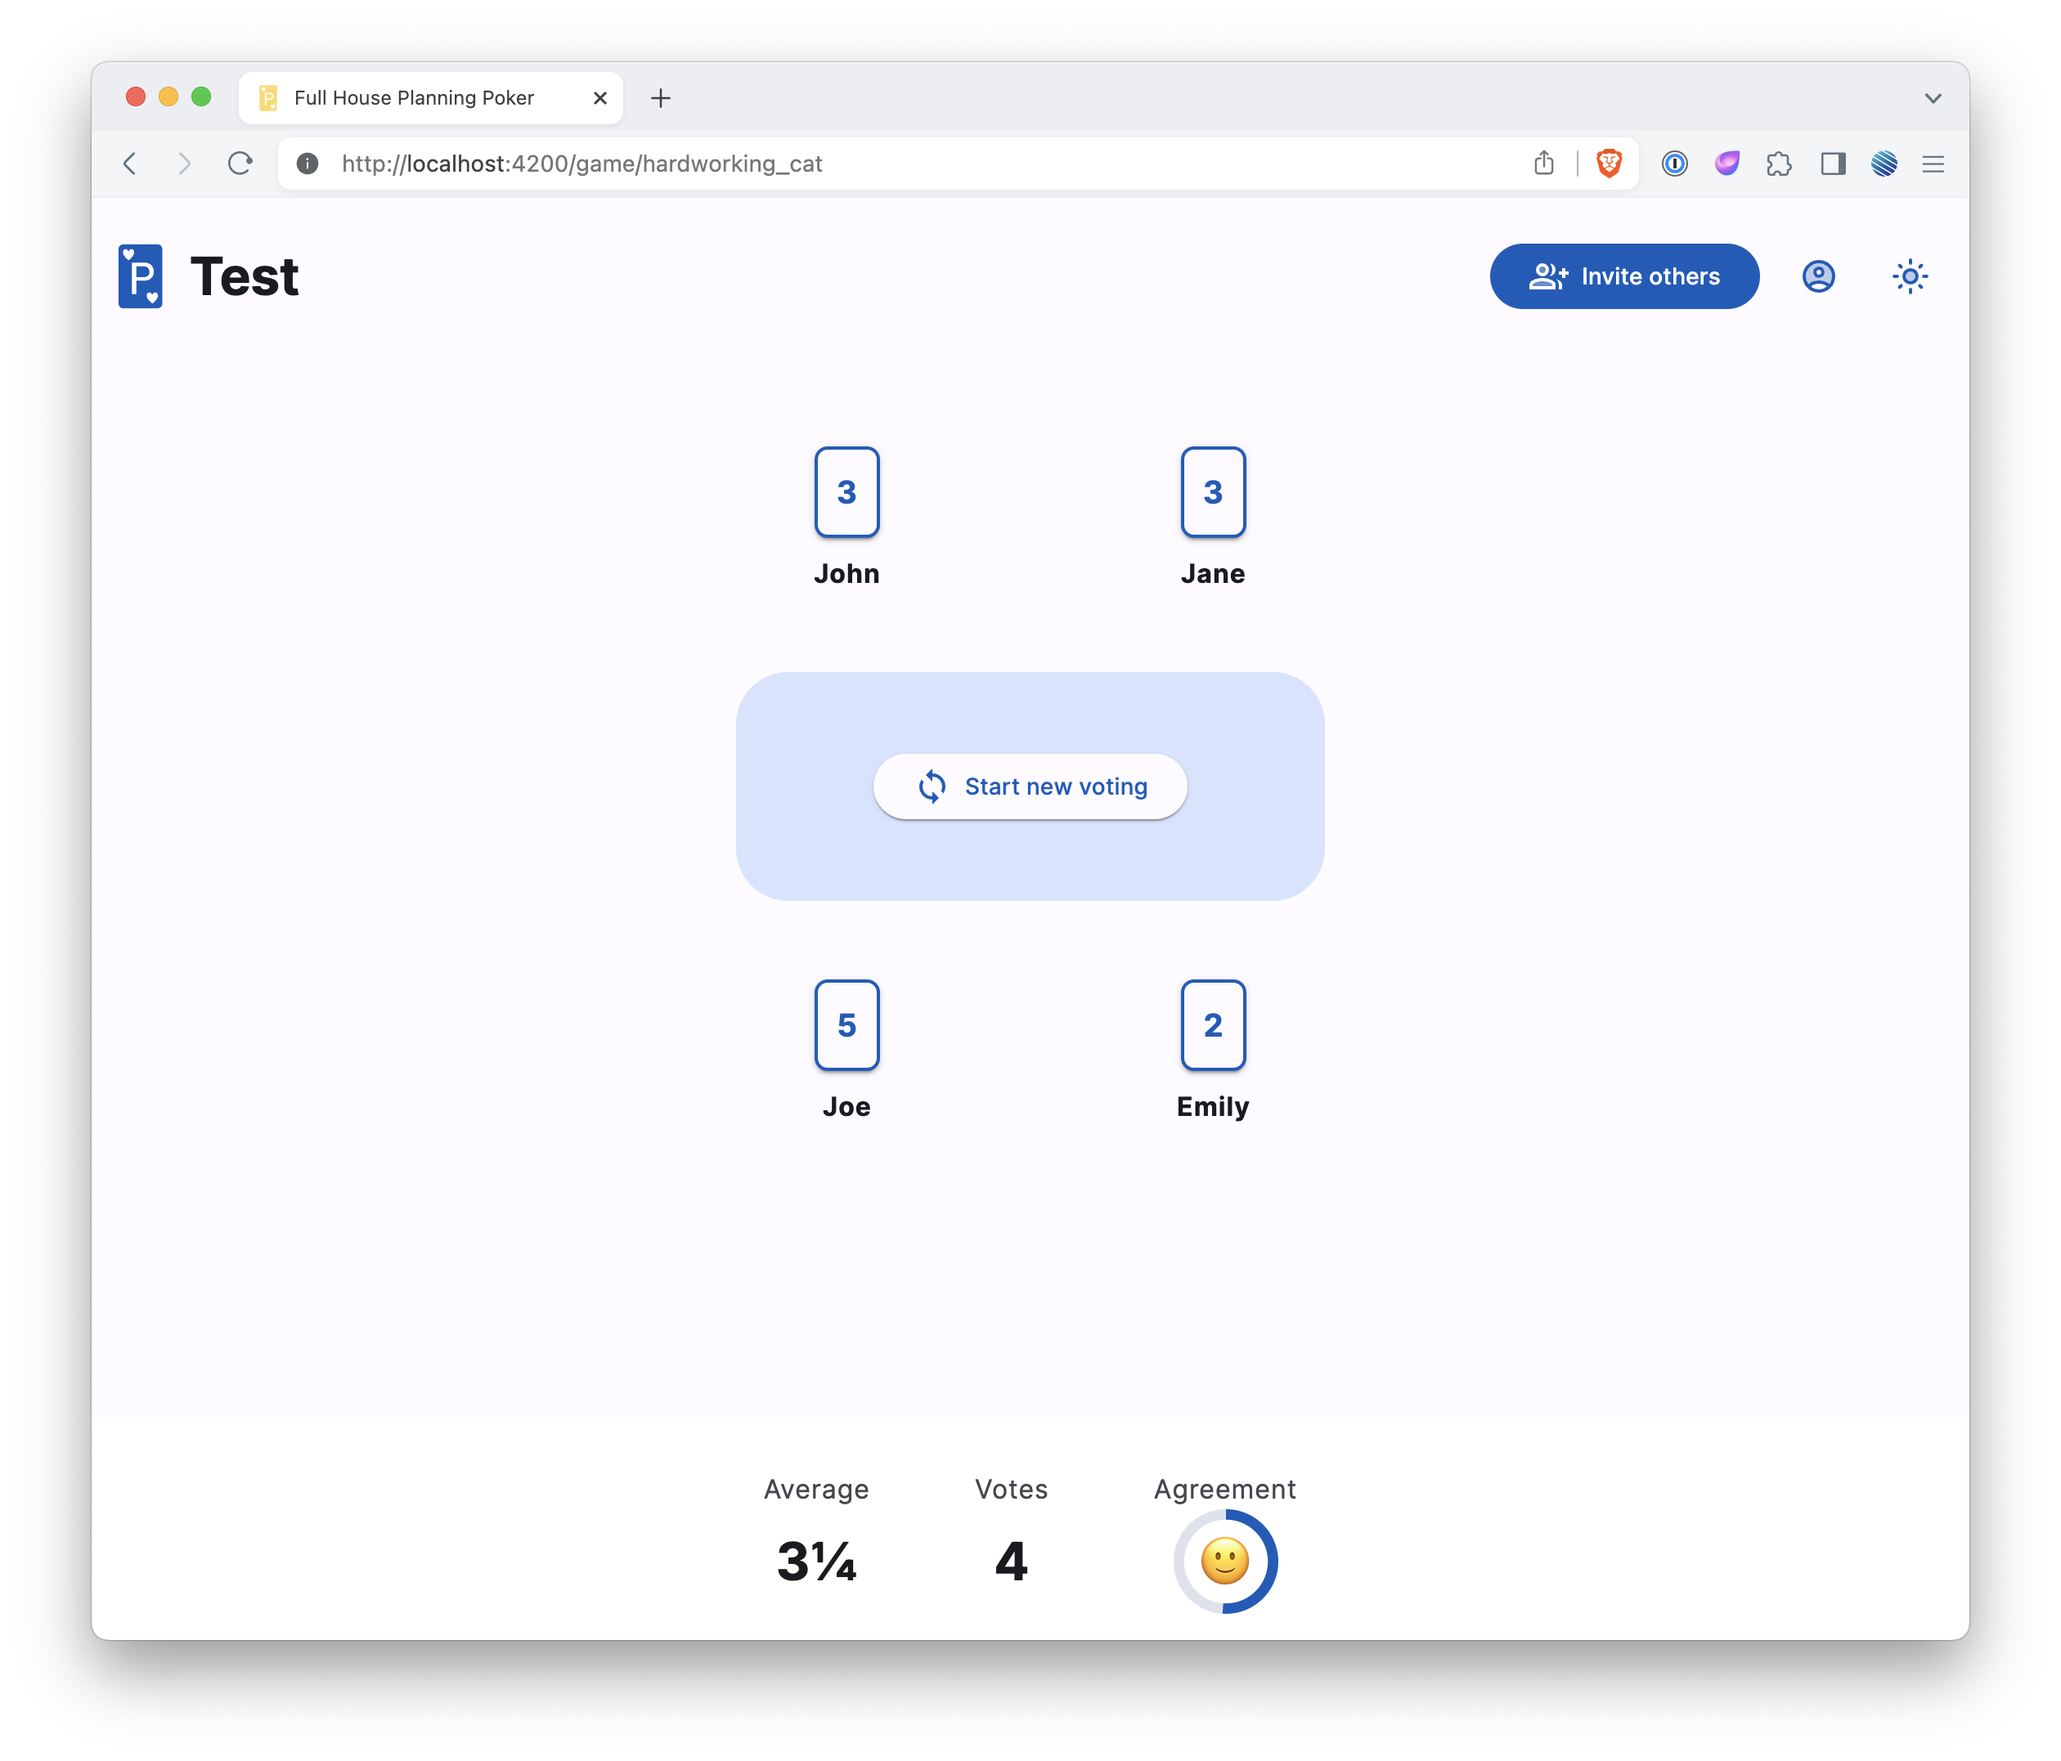
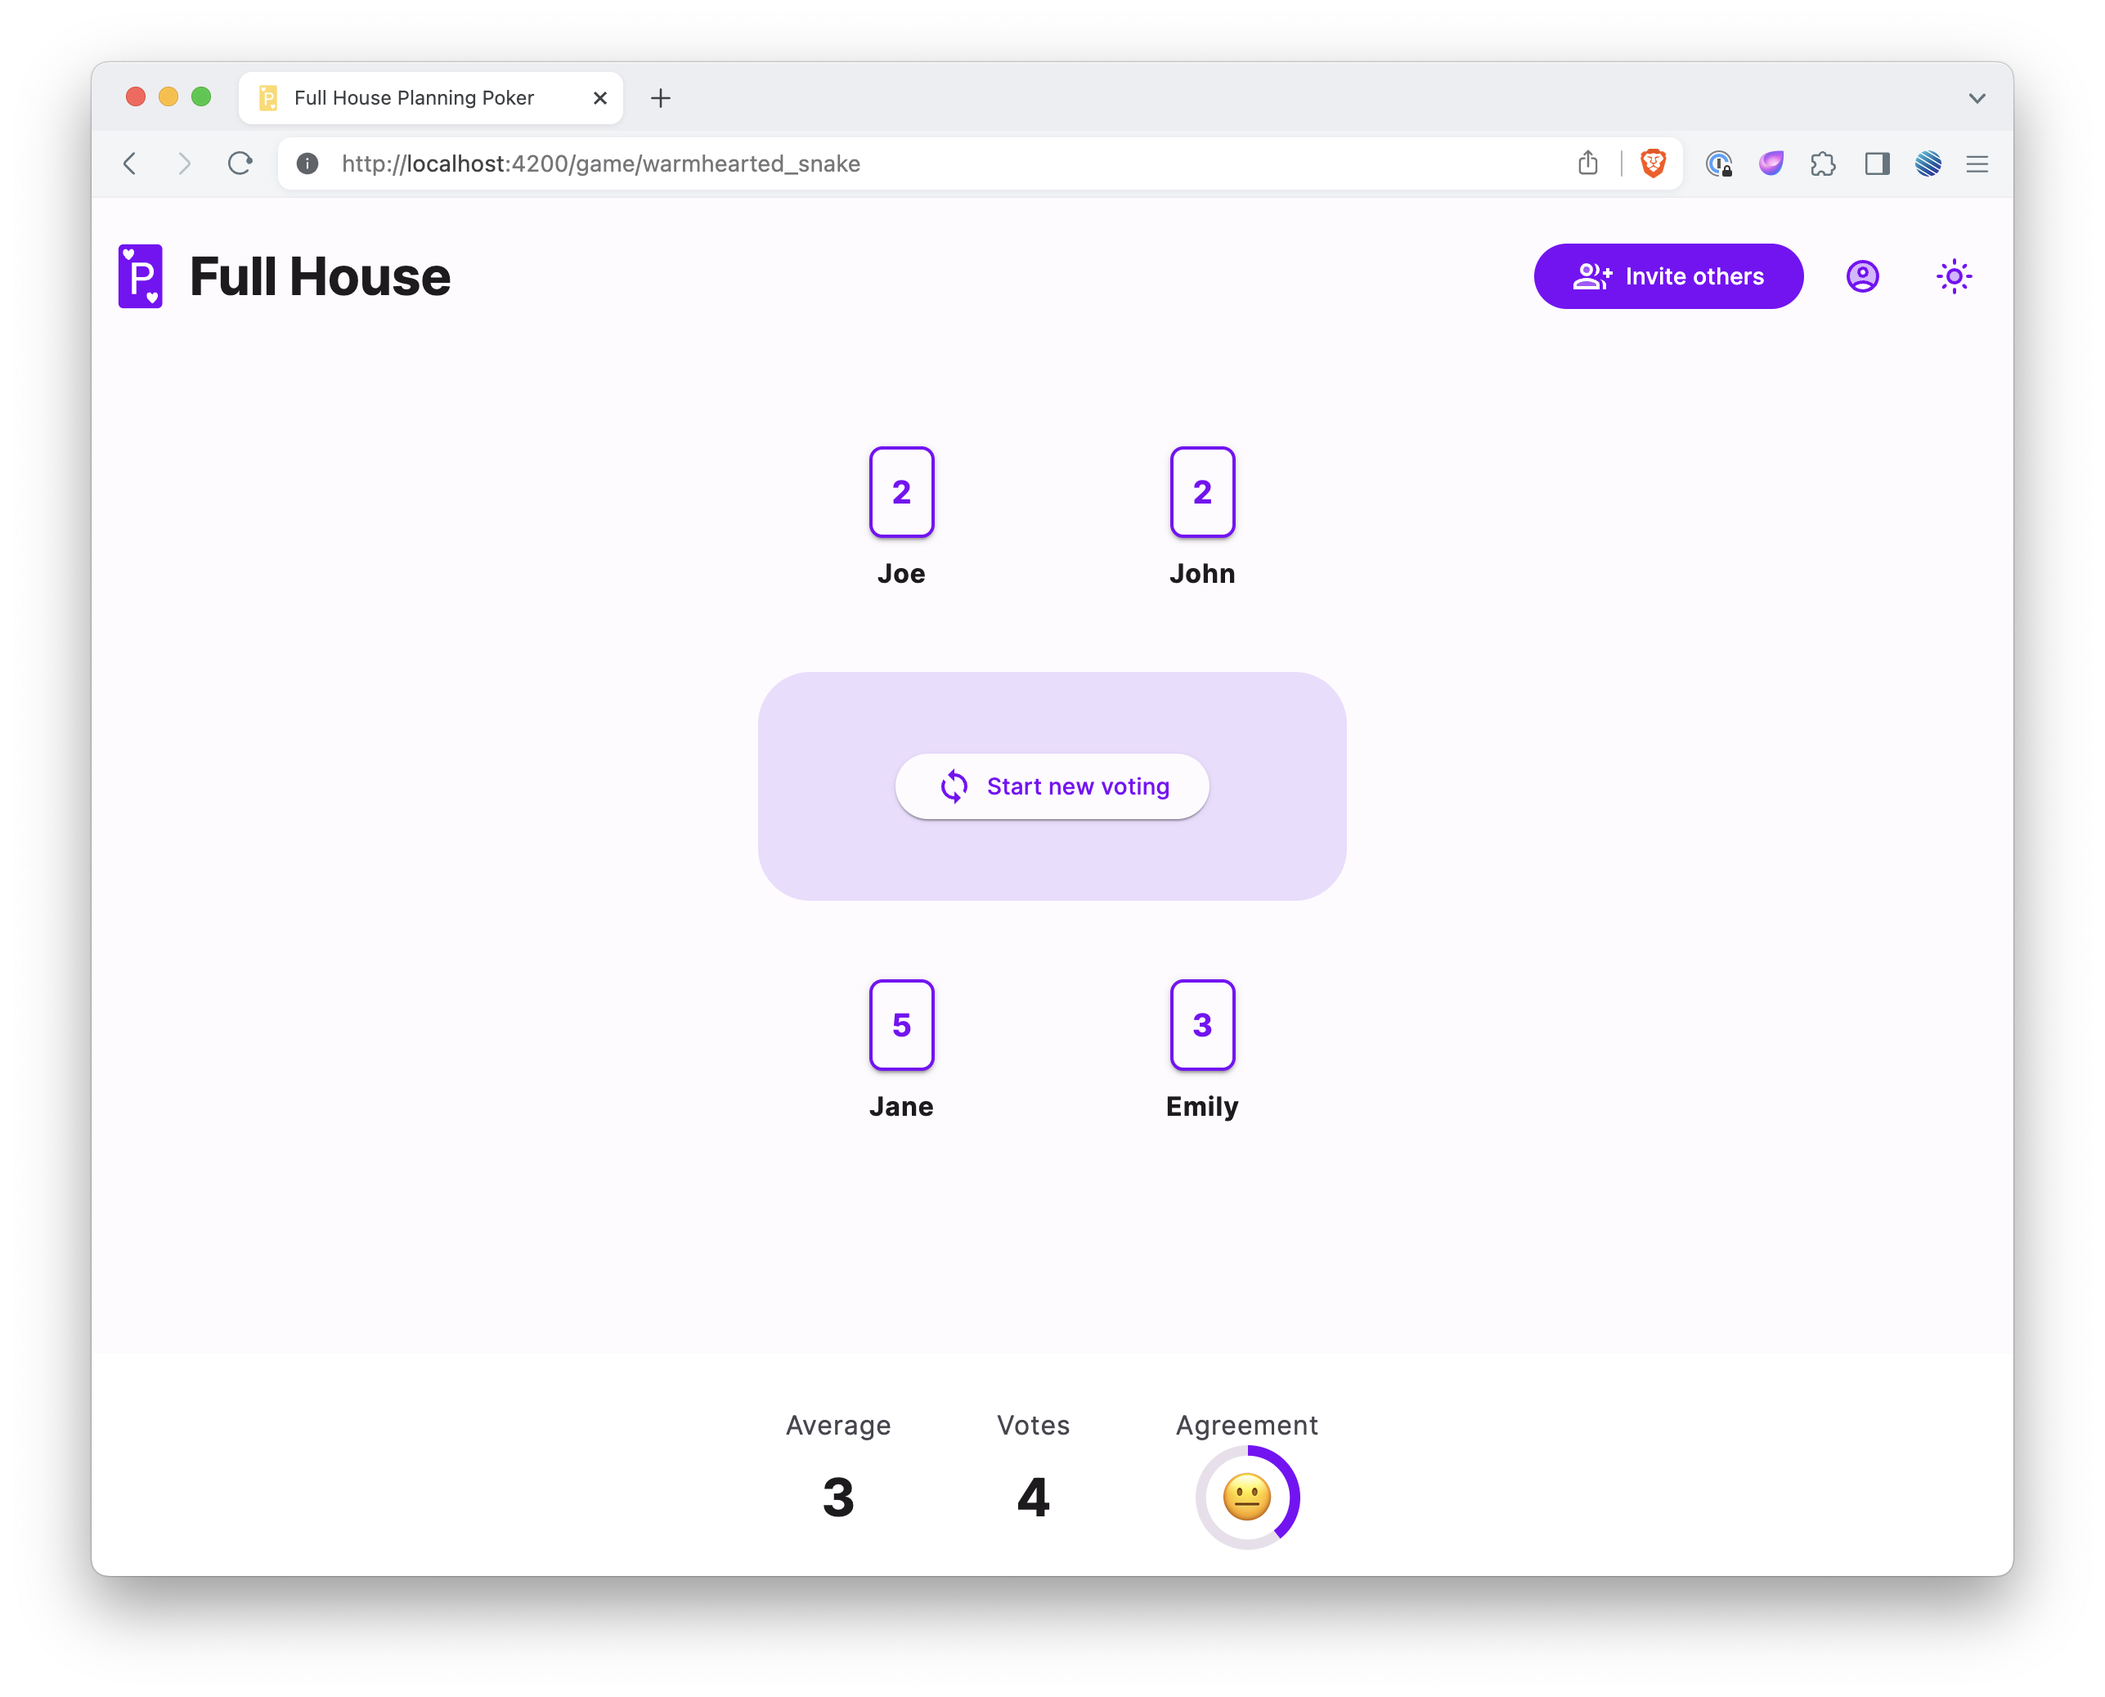
update screenshots and colours

diff --git a/frontend/src/styles/light-theme.scss b/frontend/src/styles/light-theme.scss
@@ -12,7 +12,7 @@ $warn: mat.define-palette($pp-red);
 $light-theme: matx.define-theme((
   color: (
     theme-type: light,
-    primary: matx.$m3-azure-palette,
+    primary: matx.$m3-violet-palette,
   ),
   typography: (
     plain-family: $font-family,

diff --git a/frontend/src/styles/dark-theme.scss b/frontend/src/styles/dark-theme.scss
@@ -10,7 +10,7 @@ $warn: mat.define-palette($pp-red);
 $dark-theme: matx.define-theme((
   color: (
     theme-type: dark,
-    primary: matx.$m3-azure-palette,
+    primary: matx.$m3-violet-palette,
   ),
   typography: (
     plain-family: $font-family,

diff --git a/frontend/src/app/game/participant/participant.component.scss b/frontend/src/app/game/participant/participant.component.scss
@@ -15,7 +15,7 @@
     }
   }
   strong {
-    width: 160px;
+    width: 120px;
     text-align: center;
     display: -webkit-box;
     -webkit-box-orient: vertical;

diff --git a/frontend/src/app/game/game/game.component.scss b/frontend/src/app/game/game/game.component.scss
@@ -18,7 +18,7 @@
 
 .middle-row {
   &.shift-left {
-    transform: translateX(-112px);
+    transform: translateX(-92px);
   }
 }
 
